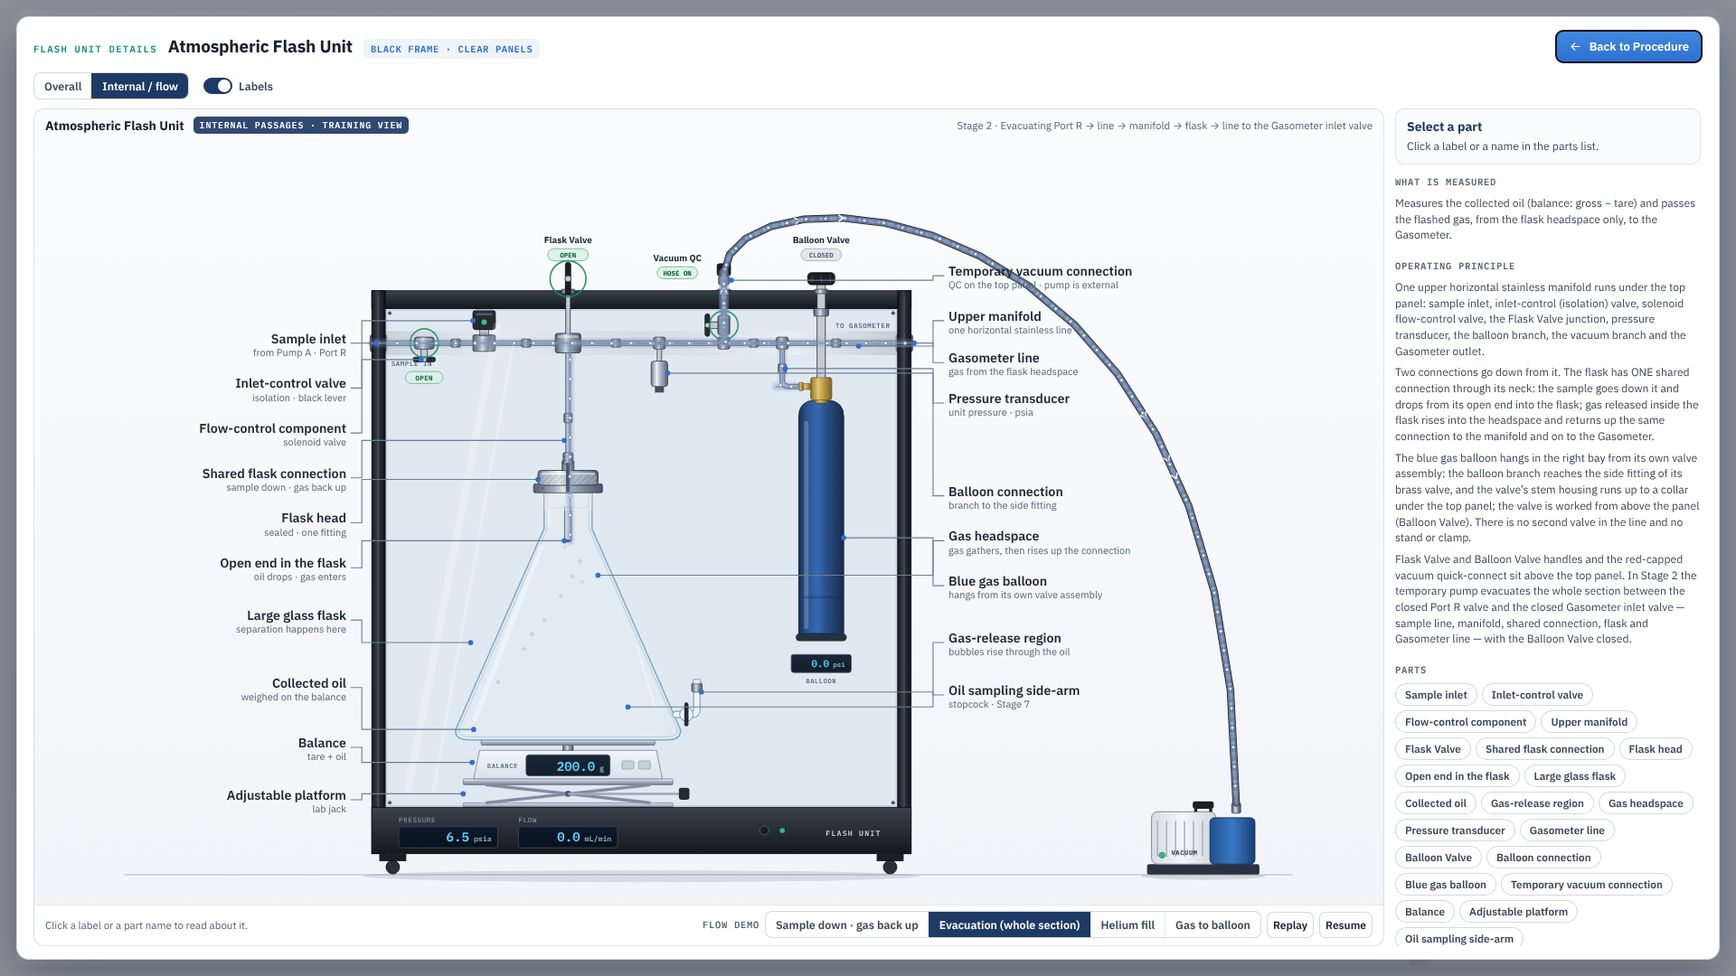
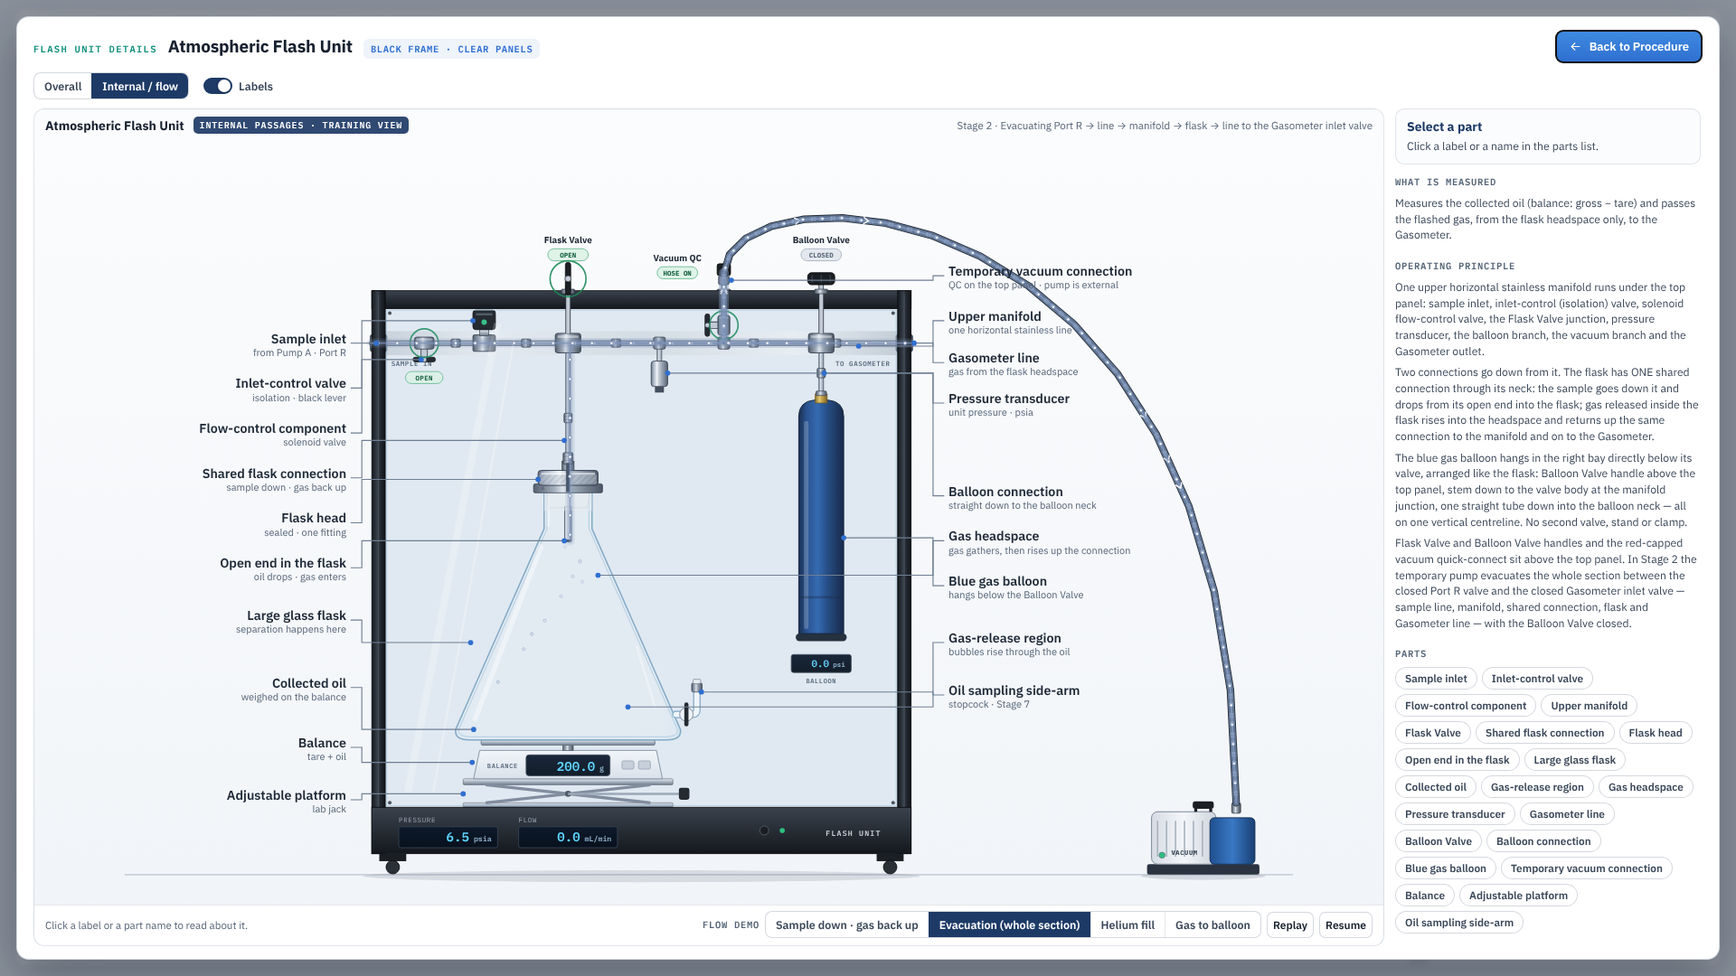
Flash prototype rev. G: balloon connection matches the flask arrangement
- Balloon Valve handle, stem, valve body at the manifold junction, one
  straight tube and the balloon neck on one vertical centreline
- Side elbow, offset branch and brass side entry removed; simple neck
  fitting only; no second valve, stand or clamps
- Gas-collection flow path follows the straight tube; Stage 2 evacuation
  stops at the closed Balloon Valve; function, timing and values unchanged

Claude-Session: https://claude.ai/code/session_013YqmijwReojc95dHHUcSpf

Changed region(s): [[0.7812, 0.4583, 0.9688, 0.9778], [0.4375, 0.3056, 0.5312, 0.4278]]

diff --git a/prototypes/flash-unit/flash-unit.js b/prototypes/flash-unit/flash-unit.js
@@ -22,7 +22,7 @@
     flask: { cx: cx, neckTop: 268, neckBot: 318, neckHW: 32, wallIn: 4, bodyBot: 586, bodyHW: 150, bot: 600, botHW: 132 },
     head: { x0: cx - 40, x1: cx + 40, y0: 240, y1: 268 },
     tip: 334,                                                // open end of the shared connection, inside the flask
-    M: 70, iso: 70, sol: 150, pt: 384, balT: 548, vacX: 470, vacValveY: 46, vacY: -10,   // vacuum QC on top of the panel
+    M: 70, iso: 70, sol: 150, pt: 384, balT: 600, vacX: 470, vacValveY: 46, vacY: -10,   // vacuum QC on top of the panel
     ves: { x: 600, y: 468 },                                 // vessel origin (base centre); side fitting at y 128
     handleY: -16,                                            // handle level above the top panel
     balance: { x0: cx - 130, x1: cx + 130, pan: 600, top: 614, bot: 652 },
@@ -30,8 +30,8 @@
     arm: { y: 566, x1: cx + 172, top: 532, cock: cx + 158 },
     oilMaxH: 52                                              // drawing scale: 40 g (existing flash result) fills 52 units
   };
-  G.vesSide = [G.ves.x + Parts.VG.side[0] - 6, G.ves.y + Parts.VG.side[1]];
-  G.vesValveTop = G.ves.y + Parts.VG.valve1;
+  // balloon on the same vertical centreline as its valve: handle, junction on the manifold, straight tube, balloon neck
+  G.vesNeck = G.ves.y - Parts.VG.h - Parts.VG.sh - 10;     // top of the neck fitting
   var fl = G.flask;
 
   function hwIn(y) {
@@ -69,7 +69,7 @@
     RT.sInValve = g.sol;
     RT.gOut = F.path(cx + GX, g.tip).V(M + 8).turn(cx + GX, M, g.W, M, 8).H(g.W).end();
     RT.vac = F.path(cx + GX, g.tip).V(M + 8).turn(cx + GX, M, g.vacX, M, 8).H(g.vacX - 8).turn(g.vacX, M, g.vacX, g.vacY, 8).V(g.vacY - 14).end();
-    RT.ves = F.path(g.W, M).H(g.balT + 8).turn(g.balT, M, g.balT, g.vesSide[1], 8).V(g.vesSide[1] - 8).turn(g.balT, g.vesSide[1], g.vesSide[0], g.vesSide[1], 8)
+    RT.ves = F.path(g.W, M).H(g.balT + 8).turn(g.balT, M, g.balT, g.vesNeck, 8).V(g.vesNeck)
       .H(g.ves.x).V(g.ves.y - Parts.VG.h + 4).end();
   })();
   RT.heIn = F.geo('', RT.gOut.pts.slice().reverse());
@@ -79,7 +79,7 @@
     var g = G, M = g.M, up = function (p) { return p.turn(g.vacX, M, g.vacX, g.vacY, 8).V(g.vacY - 14).end(); };
     RT.vacIn = up(F.path(0, M).H(g.vacX - 8));                                     // sample line + manifold (inlet valves open)
     RT.vacGas = up(F.path(g.W, M).H(g.vacX + 8));                                  // Gasometer line up to the Flash Unit
-    RT.vacBal = up(F.path(g.vesSide[0], g.vesSide[1]).H(g.balT - 8).turn(g.balT, g.vesSide[1], g.balT, M, 8).V(M + 8).turn(g.balT, M, g.vacX, M, 8).H(g.vacX + 8));   // balloon stub up to its CLOSED valve
+    RT.vacBal = up(F.path(g.balT - 12, M).H(g.vacX + 8));                          // manifold up to the CLOSED Balloon Valve junction (balloon side isolated)
   })();
   RT.shared = { x: cx, y0: G.M, y1: G.tip };
 
@@ -168,12 +168,13 @@
     var g = G, s = '', M = g.M;
     s += F.tube(F.path(0, M).H(g.W).end());                                                        // the one upper manifold
     s += F.tube(F.path(cx, M).V(g.head.y0 - 16).end());                                             // flask connection (down)
-    s += F.tube(F.path(g.balT, M).V(g.vesSide[1] - 8).turn(g.balT, g.vesSide[1], g.vesSide[0], g.vesSide[1], 8).H(g.vesSide[0]).end());   // balloon connection (down)
+    s += F.tube(F.path(g.balT, M).V(g.vesNeck).end());                                           // balloon connection: straight down to the neck
     s += F.tube(F.path(g.vacX, M).V(g.vacY).end());                                                // vacuum branch, up through the top panel
     s += F.tube(F.path(g.pt, M).V(M + 26).end());
-    [g.pt, g.balT, g.vacX].forEach(function (x) { s += F.tee(x, M); });
+    [g.pt, g.vacX].forEach(function (x) { s += F.tee(x, M); });
     [[112, M], [206, M], [326, M], [510, M], [620, M]].forEach(function (q) { s += F.nut(q[0], q[1], 'h', .9); });
-    s += F.nut(cx, 170, 'v', .9) + F.nut(g.balT, 104, 'v', .9);
+    s += F.nut(cx, 170, 'v', .9) + F.nut(g.balT, 110, 'v', .9);
+    s += R(g.balT - 17, M - 13, 34, 26, 'rx="3" fill="url(#ppSteelD)" stroke="#2a3443" stroke-width="1.1"') + R(g.balT - 14, M - 10, 28, 3, 'fill="#fff" opacity=".45"');   // Balloon Valve body at the junction
     [[0, M], [g.W, M]].forEach(function (q) { var x = q[0] ? g.W - g.post : 0; s += R(x - 2, q[1] - 11, g.post + 4, 22, 'rx="2" fill="url(#ppSteelD)" stroke="#2a3443" stroke-width=".9"'); });
     // solenoid flow-control valve on the manifold
     var sx = g.sol;
@@ -185,7 +186,7 @@
     // flask-valve body at the junction, balloon valve extension stem guide
     s += R(cx - 17, M - 13, 34, 26, 'rx="3" fill="url(#ppSteelD)" stroke="#2a3443" stroke-width="1.1"') + R(cx - 14, M - 10, 28, 3, 'fill="#fff" opacity=".45"');
     s += T(26, M + 30, 'SAMPLE IN', MONO + ' font-size="9" font-weight="600" letter-spacing=".7" fill="#566578"');
-    s += T(g.W - 28, M - 20, 'TO GASOMETER', 'text-anchor="end" ' + MONO + ' font-size="9" font-weight="600" letter-spacing=".7" fill="#566578"');
+    s += T(g.W - 28, M + 30, 'TO GASOMETER', 'text-anchor="end" ' + MONO + ' font-size="9" font-weight="600" letter-spacing=".7" fill="#566578"');
     return s;
   }
   // top-panel controls: stems through the panel, handles above it (Flask Valve, Balloon Valve)
@@ -193,9 +194,8 @@
     var g = G, v = V.valve || {}, s = '', y = g.handleY;
     var ctl = function (x, yBody, open, name, knob) {
       var on = open > 0.5, o = '';
-      var w = knob ? 12 : 7;
+      var w = 7;
       o += L(x, yBody, x, y + 6, 'stroke="#2a3443" stroke-width="' + w + '"') + L(x, yBody, x, y + 6, 'stroke="#c3cad4" stroke-width="' + (w - 2) + '"');
-      if (knob) o += R(x - 10, G.rail, 20, 10, 'rx="2" fill="url(#ppSteelD)" stroke="#2a3443" stroke-width=".8"');   // hanger collar under the panel
       o += R(x - 9, -2, 18, 6, 'rx="1.5" fill="url(#ppSteelD)" stroke="#2a3443" stroke-width=".8"');            // gland on the panel
       if (knob) o += R(x - 18, y - 8, 36, 16, 'rx="5" fill="#1b1f24" stroke="#000" stroke-width="1"') + L(x - 12, y - 5, x - 12, y + 5, 'stroke="#3a414b" stroke-width="1.4"') + L(x, y - 5, x, y + 5, 'stroke="#3a414b" stroke-width="1.4"') + L(x + 12, y - 5, x + 12, y + 5, 'stroke="#3a414b" stroke-width="1.4"');
       else o += '<g transform="rotate(' + (on ? 90 : 0) + ' ' + x + ' ' + y + ')">' + R(x - 22, y - 3.6, 44, 7.2, 'rx="3.6" fill="#1b1f24" stroke="#000" stroke-width=".8"') + '</g>' + C(x, y, 4, 'fill="#c5ccd6" stroke="#2a3443" stroke-width=".8"');
@@ -206,7 +206,7 @@
       return o;
     };
     s += ctl(cx, g.M - 13, v.flask || 0, 'Flask Valve', false);
-    s += ctl(g.ves.x, g.vesValveTop, v.vessel || 0, 'Balloon Valve', true);
+    s += ctl(g.balT, g.M - 13, v.vessel || 0, 'Balloon Valve', true);
     return s;
   }
 
@@ -291,7 +291,7 @@
   function vesselSupport() { return ''; }
   function vessel(V) {
     var v = G.ves, s = '';
-    s += '<g transform="translate(' + v.x + ' ' + v.y + ')">' + Parts.vessel(V, { stem: true }) + '</g>';
+    s += '<g transform="translate(' + v.x + ' ' + v.y + ')">' + Parts.vessel(V, { neck: true }) + '</g>';
     var bp = 14.5 * F.clamp((V.balloon || 0) / 250, 0, 1), ty = v.y + 18;
     s += R(v.x - 40, ty, 80, 24, 'rx="3" fill="url(#ppScreen)" stroke="#3a4656" stroke-width="1"');
     s += T(v.x + 32, ty + 17, bp.toFixed(1) + '<tspan font-size="9" fill="#8fb3cc"> psi</tspan>', 'text-anchor="end" ' + MONO + ' font-size="13" font-weight="600" fill="' + (bp > 0.05 ? '#7ff0bf' : '#5fd4ff') + '"');
@@ -362,9 +362,9 @@
     { id: 'gasLine', n: 'Gasometer line', s: 'gas from the flask headspace', a: [G.W + 4, G.M], p: [770, 96], an: 'start' },
     { id: 'pt', n: 'Pressure transducer', s: 'unit pressure · psia', a: [G.pt + 11, G.M + 40], p: [770, 150], an: 'start' },
     { id: 'vacConn', n: 'Temporary vacuum connection', s: 'QC on the top panel · pump is external', a: [G.vacX + 10, G.vacY - 4], p: [770, -20], an: 'start' },
-    { id: 'balloonConn', n: 'Balloon connection', s: 'branch to the side fitting', a: [G.balT + 4, 104], p: [770, 274], an: 'start' },
+    { id: 'balloonConn', n: 'Balloon connection', s: 'straight down to the balloon neck', a: [G.balT + 4, 110], p: [770, 274], an: 'start' },
     { id: 'headspace', n: 'Gas headspace', s: 'gas gathers, then rises up the connection', a: [cx + 40, 380], p: [770, 334], an: 'start' },
-    { id: 'vessel', n: 'Blue gas balloon', s: 'hangs from its own valve assembly', a: [G.ves.x + 30, 330], p: [770, 394], an: 'start' },
+    { id: 'vessel', n: 'Blue gas balloon', s: 'hangs below the Balloon Valve', a: [G.ves.x + 30, 330], p: [770, 394], an: 'start' },
     { id: 'release', n: 'Gas-release region', s: 'bubbles rise through the oil', a: [cx + 80, 556], p: [770, 470], an: 'start' },
     { id: 'arm', n: 'Oil sampling side-arm', s: 'stopcock · Stage 7', a: [G.arm.x1 + 6, G.arm.top + 4], p: [770, 540], an: 'start' }
   ];

diff --git a/prototypes/flash-unit/app.js b/prototypes/flash-unit/app.js
@@ -13,7 +13,7 @@
     2: { t: 'Stage 2 · Vacuum the flash unit', d: 'A <b>portable vacuum pump</b> is placed beside the unit and its hose is connected to the vacuum quick-connect on the top panel. The <b>Port R valve</b> (PVT Cell) and the <b>Gasometer inlet valve</b> stay <b>closed</b> as the two boundaries. Between them the inlet-control, flow-control, Flask and vacuum valves open, so the whole section is evacuated: the sample line from Port R, the manifold, the shared connection, the flask and the line up to the Gasometer inlet valve. The Balloon Valve stays closed. After evacuation the vacuum valve closes first, then the hose is disconnected and the pump is removed.', w: 'Air left in the flask or lines would be counted as produced gas and would contaminate the GC analysis. The pump is temporary equipment, not part of the Flash Unit.', o: 'Section pressure 14.7 → 0 psia; nothing is drawn from the PVT Cell, the balloon or the Gasometer chambers.' },
     3: { t: 'Stage 3 · Fill the dead space with helium', d: 'The Gasometer inlet and isolation valves open. Helium held in the two chambers (1,000 cc section first, then the 2,000 cc section) flows along the gas line to the manifold and down the <b>shared flask connection</b> into the evacuated flask (Flask Valve open) until the unit reads atmospheric.', w: 'Helium is inert and not part of the reservoir fluid, so it can be identified and subtracted in the GC. It is not collected sample gas.', o: 'Gasometer helium 3,000 → 0 cc (1,000 + 2,000); unit pressure 0 → 14.7 psia.' },
     4: { t: 'Stage 4 · Flash the sample', d: 'Pump A displaces 50 cc through Port R. The sample passes the <b>inlet-control</b> and <b>flow-control</b> valves on the upper manifold, where its pressure is let down, and goes down the <b>shared flask connection</b> (Flask Valve open). Oil drops from its open end and <b>collects</b> at the bottom of the flask; gas released from the sample <b>rises</b> through the oil into the <b>headspace</b> and returns <b>up the same connection</b>, then along the manifold to the 2,000 cc section of the Gasometer.', w: 'Separation is shown inside the glass: oil stays in the flask, only gas goes back up. In the shared connection the oil (amber, left, arrows down) and the gas (green, right, arrows up) move in opposite directions. Collection and gas release run together.', o: 'Pump A 80 → 30 cc · balance 200 → 240 g (40 g oil) · Gasometer 0 → 400 cc (2,000 cc section).' },
-    5: { t: 'Stage 5 · Collect gas into the balloon', d: 'The 2,000 cc section valves and the <b>Balloon Valve</b> (the balloon’s own brass valve, worked from above the top panel) open. Gas leaves the Gasometer along the gas line, runs along the upper manifold and down the balloon connection into the blue balloon. The Flask Valve and the inlet-control valve stay closed.', w: 'The balloon holds the gas sample for the chromatograph; the Gasometer keeps the remainder for the volume record.', o: 'Gasometer 400 → 150 cc; balloon 0 → 14.5 psi.' },
+    5: { t: 'Stage 5 · Collect gas into the balloon', d: 'The 2,000 cc section valves and the <b>Balloon Valve</b> (handle above the top panel, valve at the manifold junction) open. Gas leaves the Gasometer along the gas line, runs along the upper manifold and straight down the balloon connection into the blue balloon. The Flask Valve and the inlet-control valve stay closed.', w: 'The balloon holds the gas sample for the chromatograph; the Gasometer keeps the remainder for the volume record.', o: 'Gasometer 400 → 150 cc; balloon 0 → 14.5 psi.' },
     6: { t: 'Stage 6 · Measure oil and gas', d: 'The oil collected in the flask is read from the balance (gross − tare) and the gas from the Gasometer (2,000 cc + 1,000 cc readings) and the vessel.', w: 'GOR = gas volume at standard conditions ÷ residual oil. These readings are the basis of the flash result.', o: 'Recorded: oil 40 g (240 − 200 g tare), vessel 14.5 psi, 150 cc left in the Gasometer.' },
     7: { t: 'Stage 7 · Density & API (new)', d: 'A syringe is fitted to the flask sampling side-arm and a small aliquot of the collected oil is drawn. The syringe is connected to the density meter inlet; the oil runs along the lower leg of the long horizontal U-tube, round the return bend and back along the upper leg, pushing the air out to waste. The cell stabilizes at 25.00 °C, the period is measured and the meter reports density, SG 60/60 °F and °API. The used sample is then pushed to the waste container.', w: 'API gravity is defined on specific gravity at 60/60 °F, so the reading at 25 °C is first converted to the 60 °F reference. The 40 g recorded at Stage 6 stays the flash result; the aliquot does not overwrite it.', o: 'calc' }
   };

diff --git a/prototypes/flash-unit/details.js b/prototypes/flash-unit/details.js
@@ -22,7 +22,7 @@
       principle: [
         'One upper horizontal stainless manifold runs under the top panel: sample inlet, inlet-control (isolation) valve, solenoid flow-control valve, the Flask Valve junction, pressure transducer, the balloon branch, the vacuum branch and the Gasometer outlet.',
         'Two connections go down from it. The flask has ONE shared connection through its neck: the sample goes down it and drops from its open end into the flask; gas released inside the flask rises into the headspace and returns up the same connection to the manifold and on to the Gasometer.',
-        'The blue gas balloon hangs in the right bay from its own valve assembly: the balloon branch reaches the side fitting of its brass valve, and the valve’s stem housing runs up to a collar under the top panel; the valve is worked from above the panel (Balloon Valve). There is no second valve in the line and no stand or clamp.',
+        'The blue gas balloon hangs in the right bay directly below its valve, arranged like the flask: Balloon Valve handle above the top panel, stem down to the valve body at the manifold junction, one straight tube down into the balloon neck — all on one vertical centreline. No second valve, stand or clamp.',
         'Flask Valve and Balloon Valve handles and the red-capped vacuum quick-connect sit above the top panel. In Stage 2 the temporary pump evacuates the whole section between the closed Port R valve and the closed Gasometer inlet valve — sample line, manifold, shared connection, flask and Gasometer line — with the Balloon Valve closed.'
       ],
       parts: {
@@ -40,9 +40,9 @@
         headspace: { n: 'Gas headspace', d: 'Space above the oil where gas gathers before rising up the shared connection.', in: B },
         pt: { n: 'Pressure transducer', d: 'On the manifold; reads the unit pressure shown on the lower PRESSURE display.', in: B },
         gasLine: { n: 'Gasometer line', d: 'Manifold outlet on the right post to the Gasometer inlet.', in: B },
-        balloonValve: { n: 'Balloon Valve', d: 'The balloon’s own brass valve, worked from above the top panel through an extension stem. Open only in Stage 5.', in: B },
-        balloonConn: { n: 'Balloon connection', d: 'Branch from the manifold down to the side fitting of the balloon valve.', in: B },
-        vessel: { n: 'Blue gas balloon', d: 'Tall dark-blue cylinder suspended from its own brass valve assembly (no stand or clamps), clear of the lower deck. Holds the GC gas sample; its pressure is shown below it.', in: B },
+        balloonValve: { n: 'Balloon Valve', d: 'Valve at the manifold junction above the balloon, handle above the top panel (same arrangement as the Flask Valve). Open only in Stage 5; closed during evacuation so the balloon is isolated.', in: B },
+        balloonConn: { n: 'Balloon connection', d: 'One straight vertical tube from the Balloon Valve junction down into the balloon neck.', in: B },
+        vessel: { n: 'Blue gas balloon', d: 'Tall dark-blue cylinder suspended from its straight connection below the Balloon Valve (no stand or clamps), clear of the lower deck. Holds the GC gas sample; its pressure is shown below it.', in: B },
         vacConn: { n: 'Temporary vacuum connection', d: 'Vacuum valve on the branch rising from the manifold, and a red-capped quick-connect above the top panel. The pump is external: its hose connects there for Stage 2 only, then it is disconnected and removed.', in: B },
         balance: { n: 'Balance', d: 'Weighs the flask and contents: 200 g tare, the oil collected is the gain.', in: B },
         platform: { n: 'Adjustable platform', d: 'Lab jack under the balance.', in: B },

diff --git a/prototypes/flash-unit/parts.js b/prototypes/flash-unit/parts.js
@@ -16,16 +16,21 @@
   function vessel(V, o) {
     o = o || {};
     var g = VG, s = '', open = (V && V.valve ? V.valve.vessel : 0) || 0, top = -g.h;
-    if (!o.stem) s += E(0, 2, g.r + 10, 5, 'fill="#1b2a40" opacity=".14"');
-    s += R(-g.r - 4, -10, 2 * g.r + 8, 10, 'rx="' + (o.stem ? 5 : 2) + '" fill="#1b2533"');      // foot ring / bottom cap
+    if (!o.stem && !o.neck) s += E(0, 2, g.r + 10, 5, 'fill="#1b2a40" opacity=".14"');
+    s += R(-g.r - 4, -10, 2 * g.r + 8, 10, 'rx="' + (o.stem || o.neck ? 5 : 2) + '" fill="#1b2533"');      // foot ring / bottom cap
     s += P('M' + -g.r + ' -10 V' + top + ' Q' + -g.r + ' ' + (top - g.sh) + ' -9 ' + (top - g.sh - 2) + ' H9 Q' + g.r + ' ' + (top - g.sh) + ' ' + g.r + ' ' + top + ' V-10 Z', 'fill="url(#fxBlue)" stroke="#0e1c33" stroke-width="1.2"');
     s += R(-g.r + 7, top + 6, 6, g.h - 22, 'rx="3" fill="#fff" opacity=".22"');
     s += R(-g.r + 2, -60, 2 * g.r - 4, 3, 'fill="#0e1c33" opacity=".35"');
-    // brass valve: neck, body with side connection, stem, large black knob
-    s += R(-8, top - g.sh - 10, 16, 12, 'fill="url(#fxBrass)" stroke="#6b4e12" stroke-width=".8"');
-    s += R(-14, g.valve1, 28, g.valve0 - g.valve1 + 6, 'rx="3" fill="url(#fxBrass)" stroke="#6b4e12" stroke-width="1"');
-    s += R(-26, g.side[1] - 4, 12, 8, 'rx="1.5" fill="url(#fxBrass)" stroke="#6b4e12" stroke-width=".8"') + R(-30, g.side[1] - 5.5, 6, 11, 'rx="1.5" fill="url(#fxBrass)" stroke="#6b4e12" stroke-width=".8"');
-    if (!o.stem) {
+    if (o.neck) {
+      // simple neck fitting only: the valve is at the manifold junction above (Flash Unit)
+      s += R(-8, top - g.sh - 10, 16, 12, 'fill="url(#fxBrass)" stroke="#6b4e12" stroke-width=".8"') + R(-7, top - g.sh - 14, 14, 6, 'rx="1.5" fill="url(#ppSteelD)" stroke="#2a3443" stroke-width=".8"');
+    } else {
+      // brass valve: neck, body with side connection, stem, large black knob
+      s += R(-8, top - g.sh - 10, 16, 12, 'fill="url(#fxBrass)" stroke="#6b4e12" stroke-width=".8"');
+      s += R(-14, g.valve1, 28, g.valve0 - g.valve1 + 6, 'rx="3" fill="url(#fxBrass)" stroke="#6b4e12" stroke-width="1"');
+      s += R(-26, g.side[1] - 4, 12, 8, 'rx="1.5" fill="url(#fxBrass)" stroke="#6b4e12" stroke-width=".8"') + R(-30, g.side[1] - 5.5, 6, 11, 'rx="1.5" fill="url(#fxBrass)" stroke="#6b4e12" stroke-width=".8"');
+    }
+    if (!o.stem && !o.neck) {
       s += R(-4, g.knob[1] - 6, 8, 8, 'fill="url(#fxBrass)" stroke="#6b4e12" stroke-width=".7"');
       s += R(-22, g.knob[0], 44, g.knob[1] - g.knob[0] - 4, 'rx="5" fill="#1b1f24" stroke="#000" stroke-width="1"');
       for (var i = -16; i <= 16; i += 6) s += L(i, g.knob[0] + 3, i, g.knob[1] - 7, 'stroke="#3a414b" stroke-width="1.4"');

diff --git a/prototypes/flash-unit/tools/verify.js b/prototypes/flash-unit/tools/verify.js
@@ -33,6 +33,10 @@ const { chromium } = require('playwright');
     out.stage2StartsAtGasometerInletValve = starts.some(q => Math.abs(q[1] - gv[1]) < 1 && gv[0] - q[0] > 0 && gv[0] - q[0] < 12);
     out.stage2StartsInFlask = starts.some(q => { const l = loc(q); return Math.abs(l[0] - FU.RT.shared.x) < 4 && Math.abs(l[1] - G.tip) < 1; });
     out.stage2NothingBeyondBoundaries = vl.every(x => x.g.pts.every(q => q[0] >= pr0[0] - 1 && q[0] <= gv[0]));
+    // balloon connection: one vertical centreline (valve junction, straight tube, neck); Stage 2 stops at the closed valve
+    const vr = R.vessel.g, vend = loc(vr.end), vlast = vr.pts.slice(-2).map(loc);
+    out.balloonRouteStraightIntoNeck = vlast.every(q => Math.abs(q[0] - G.balT) < .5) && Math.abs(vend[0] - G.ves.x) < .5 && vend[1] > G.vesNeck && vend[1] < G.ves.y - Parts.VG.h + 10;
+    out.stage2BalloonBranchStopsAtClosedValve = R.vac.list.every(x => x.g.pts.every(q => loc(q)[1] <= G.M + 1 || Math.abs(loc(q)[0] - G.balT) > 1 || loc(q)[1] < G.vesNeck - 40));
     const lanes = (V) => { sc.update(V); return host.querySelector('[data-l="lanes"]').innerHTML.split('class="lane"').length - 1; };
     const sim = FlashSim.create(); sim.jump([1, 2, 3]); sim.start(4); sim.tick(6);
     let V = sim.vm(6); out.stage4Lanes = lanes(V); V.valve.inlet = 0; out.stage4LanesInletClosed = lanes(V);

diff --git a/prototypes/flash-unit/README.md b/prototypes/flash-unit/README.md
@@ -14,6 +14,11 @@ No build step. `build-preview.py OUT.html` bundles the page into one file for th
 
 Review links: `?stage=n` (end of stage n) · `&run=1&t=<s>&hold=1` (run stage n, fast-forward, pause) · `&view=auto|system|fu|ga|dm` · `&labels=0` · `&details=fu|ga|dm&dview=overall|internal&demo=<stage>&dt=<s>`.
 
+## Rev. G — balloon connection matches the flask
+
+- Balloon Valve handle above the top panel → stem → valve body at the manifold junction → one straight tube → balloon neck, all on one vertical centreline, the same arrangement as the Flask Valve. The side elbow, offset branch and brass side entry are removed; a simple neck fitting remains. No second valve.
+- The gas-collection flow path follows the straight tube. In Stage 2 the evacuation reaches only the closed Balloon Valve junction, so the balloon interior stays isolated. Valve function, timing and values are unchanged.
+
 ## Rev. F — Stage 2 evacuates the whole connected section
 
 - Boundaries: the **Port R valve** (PVT Cell) and a **Gasometer inlet valve** on the external gas line. That valve is the existing gasometer valve, open in Stages 3–5 as before. Both are closed in Stage 2 and marked "BOUNDARY · SHUT".
